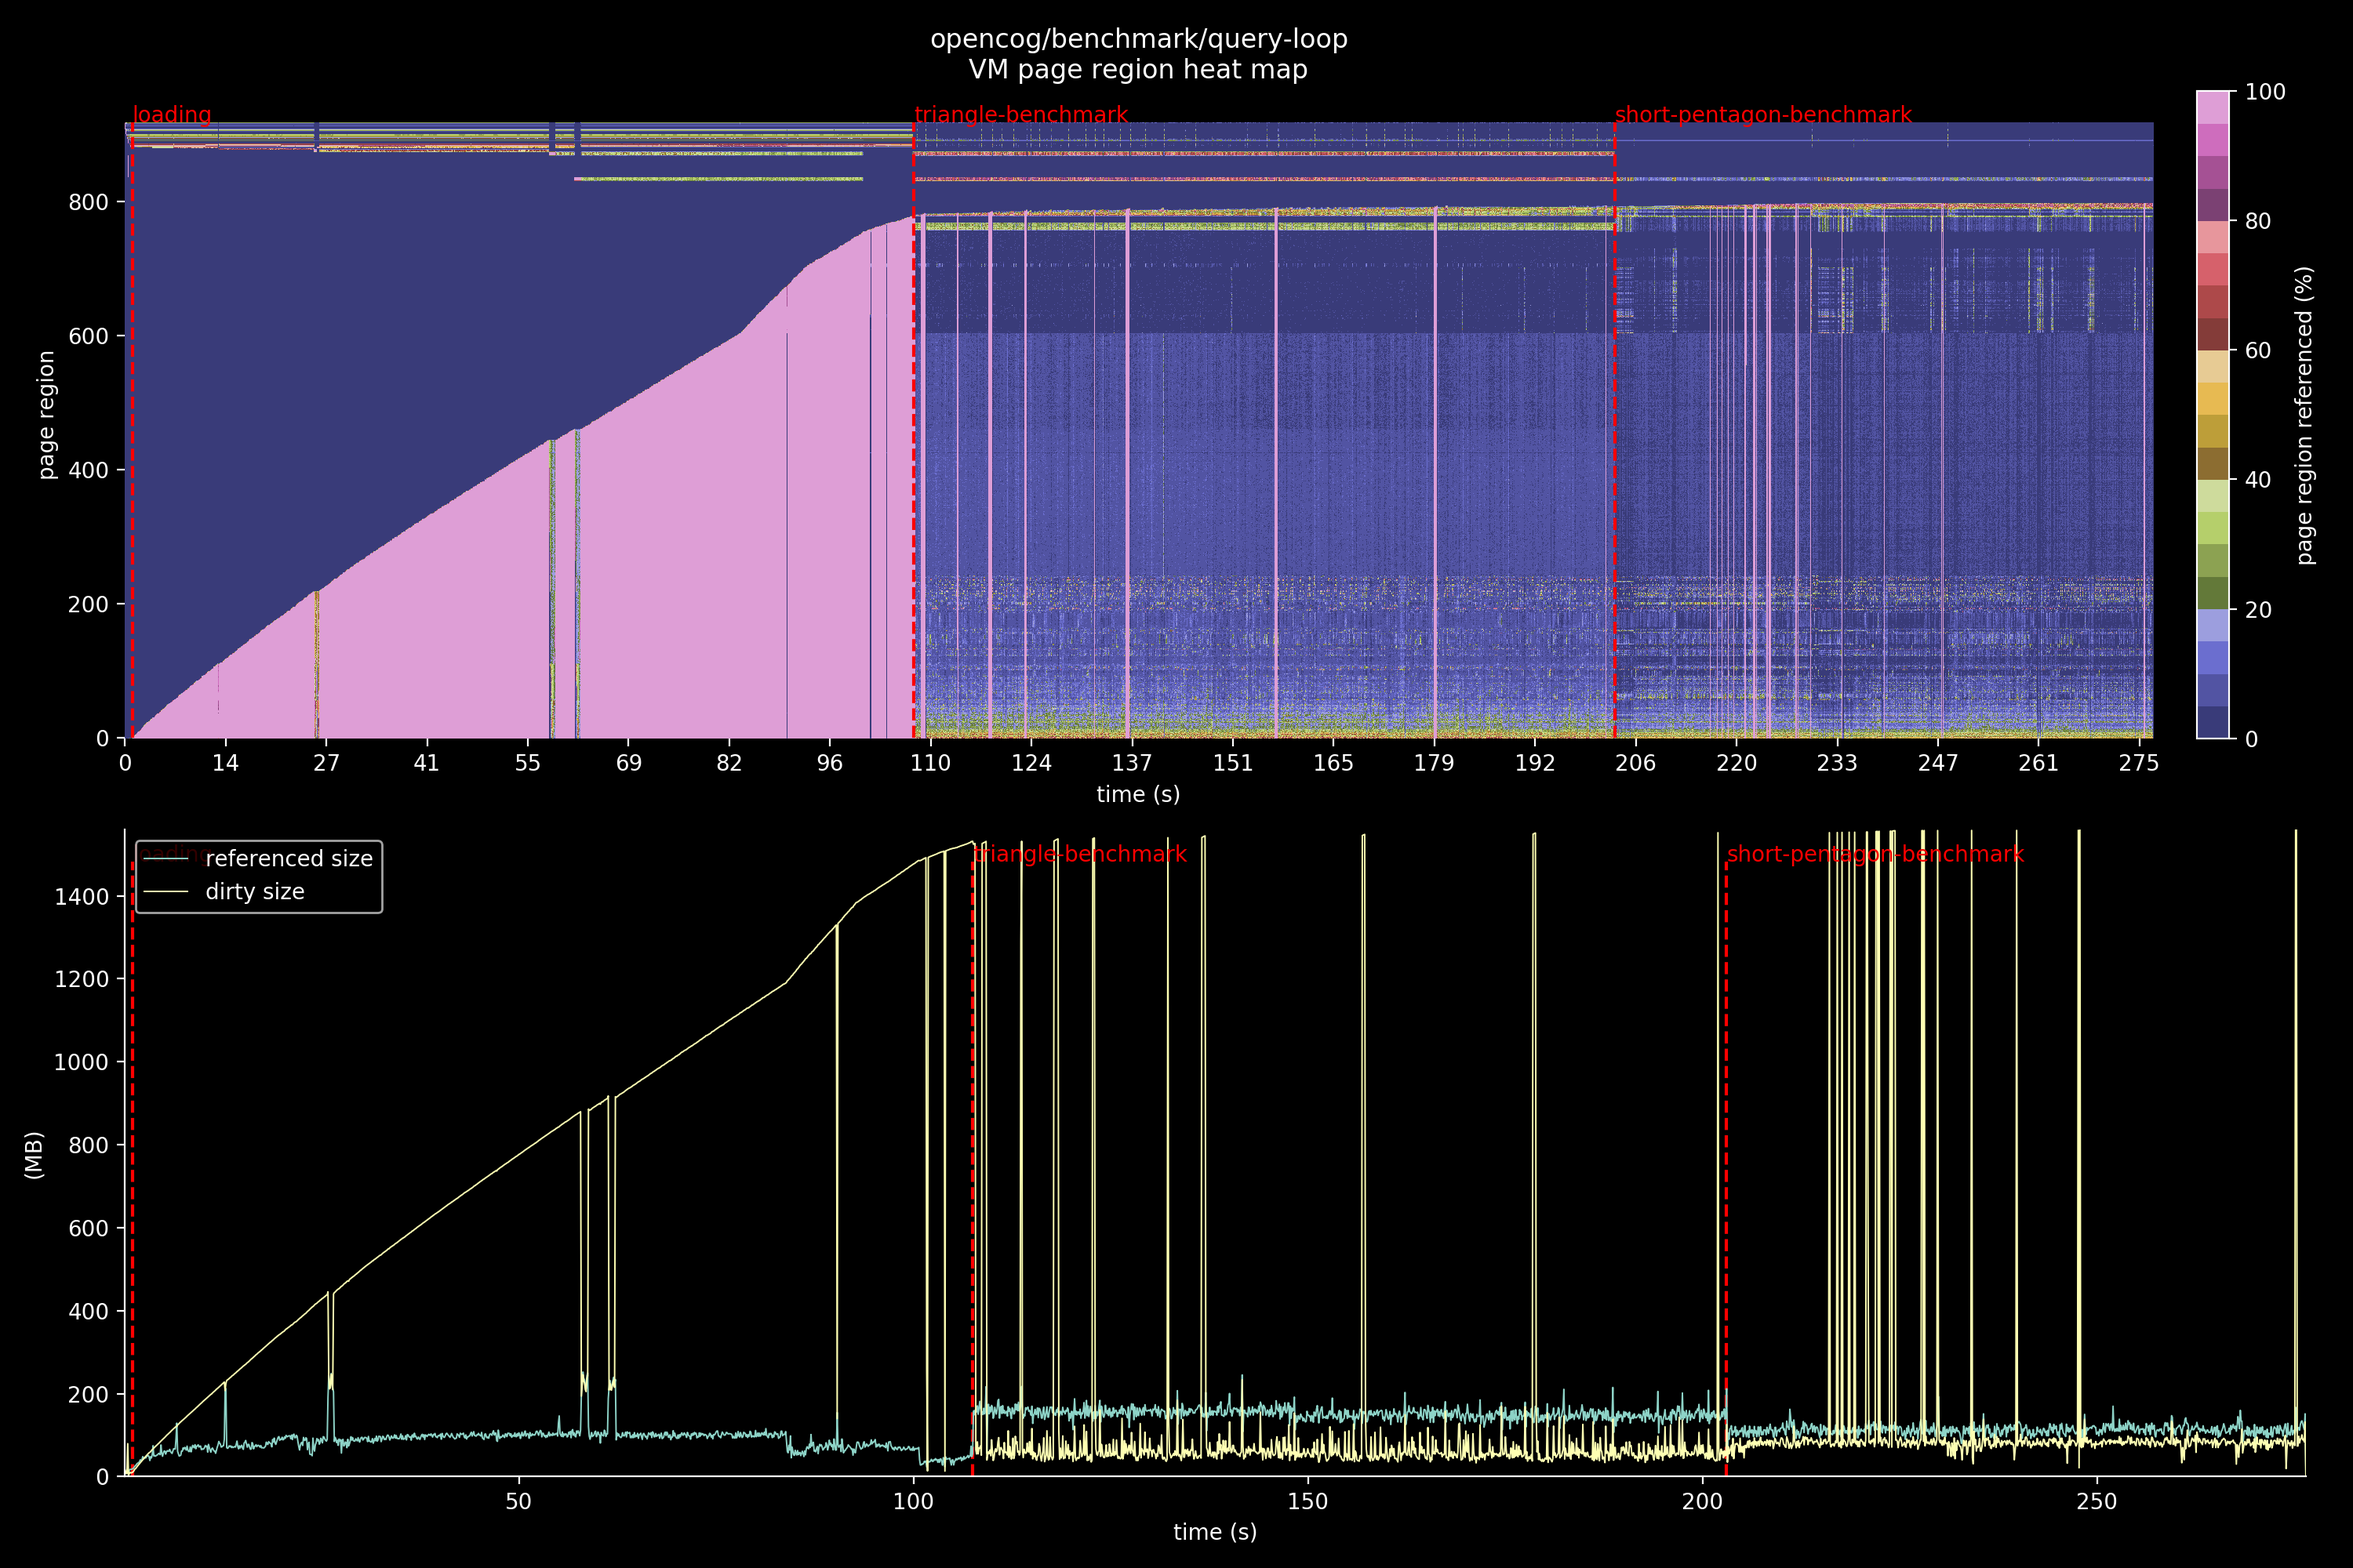
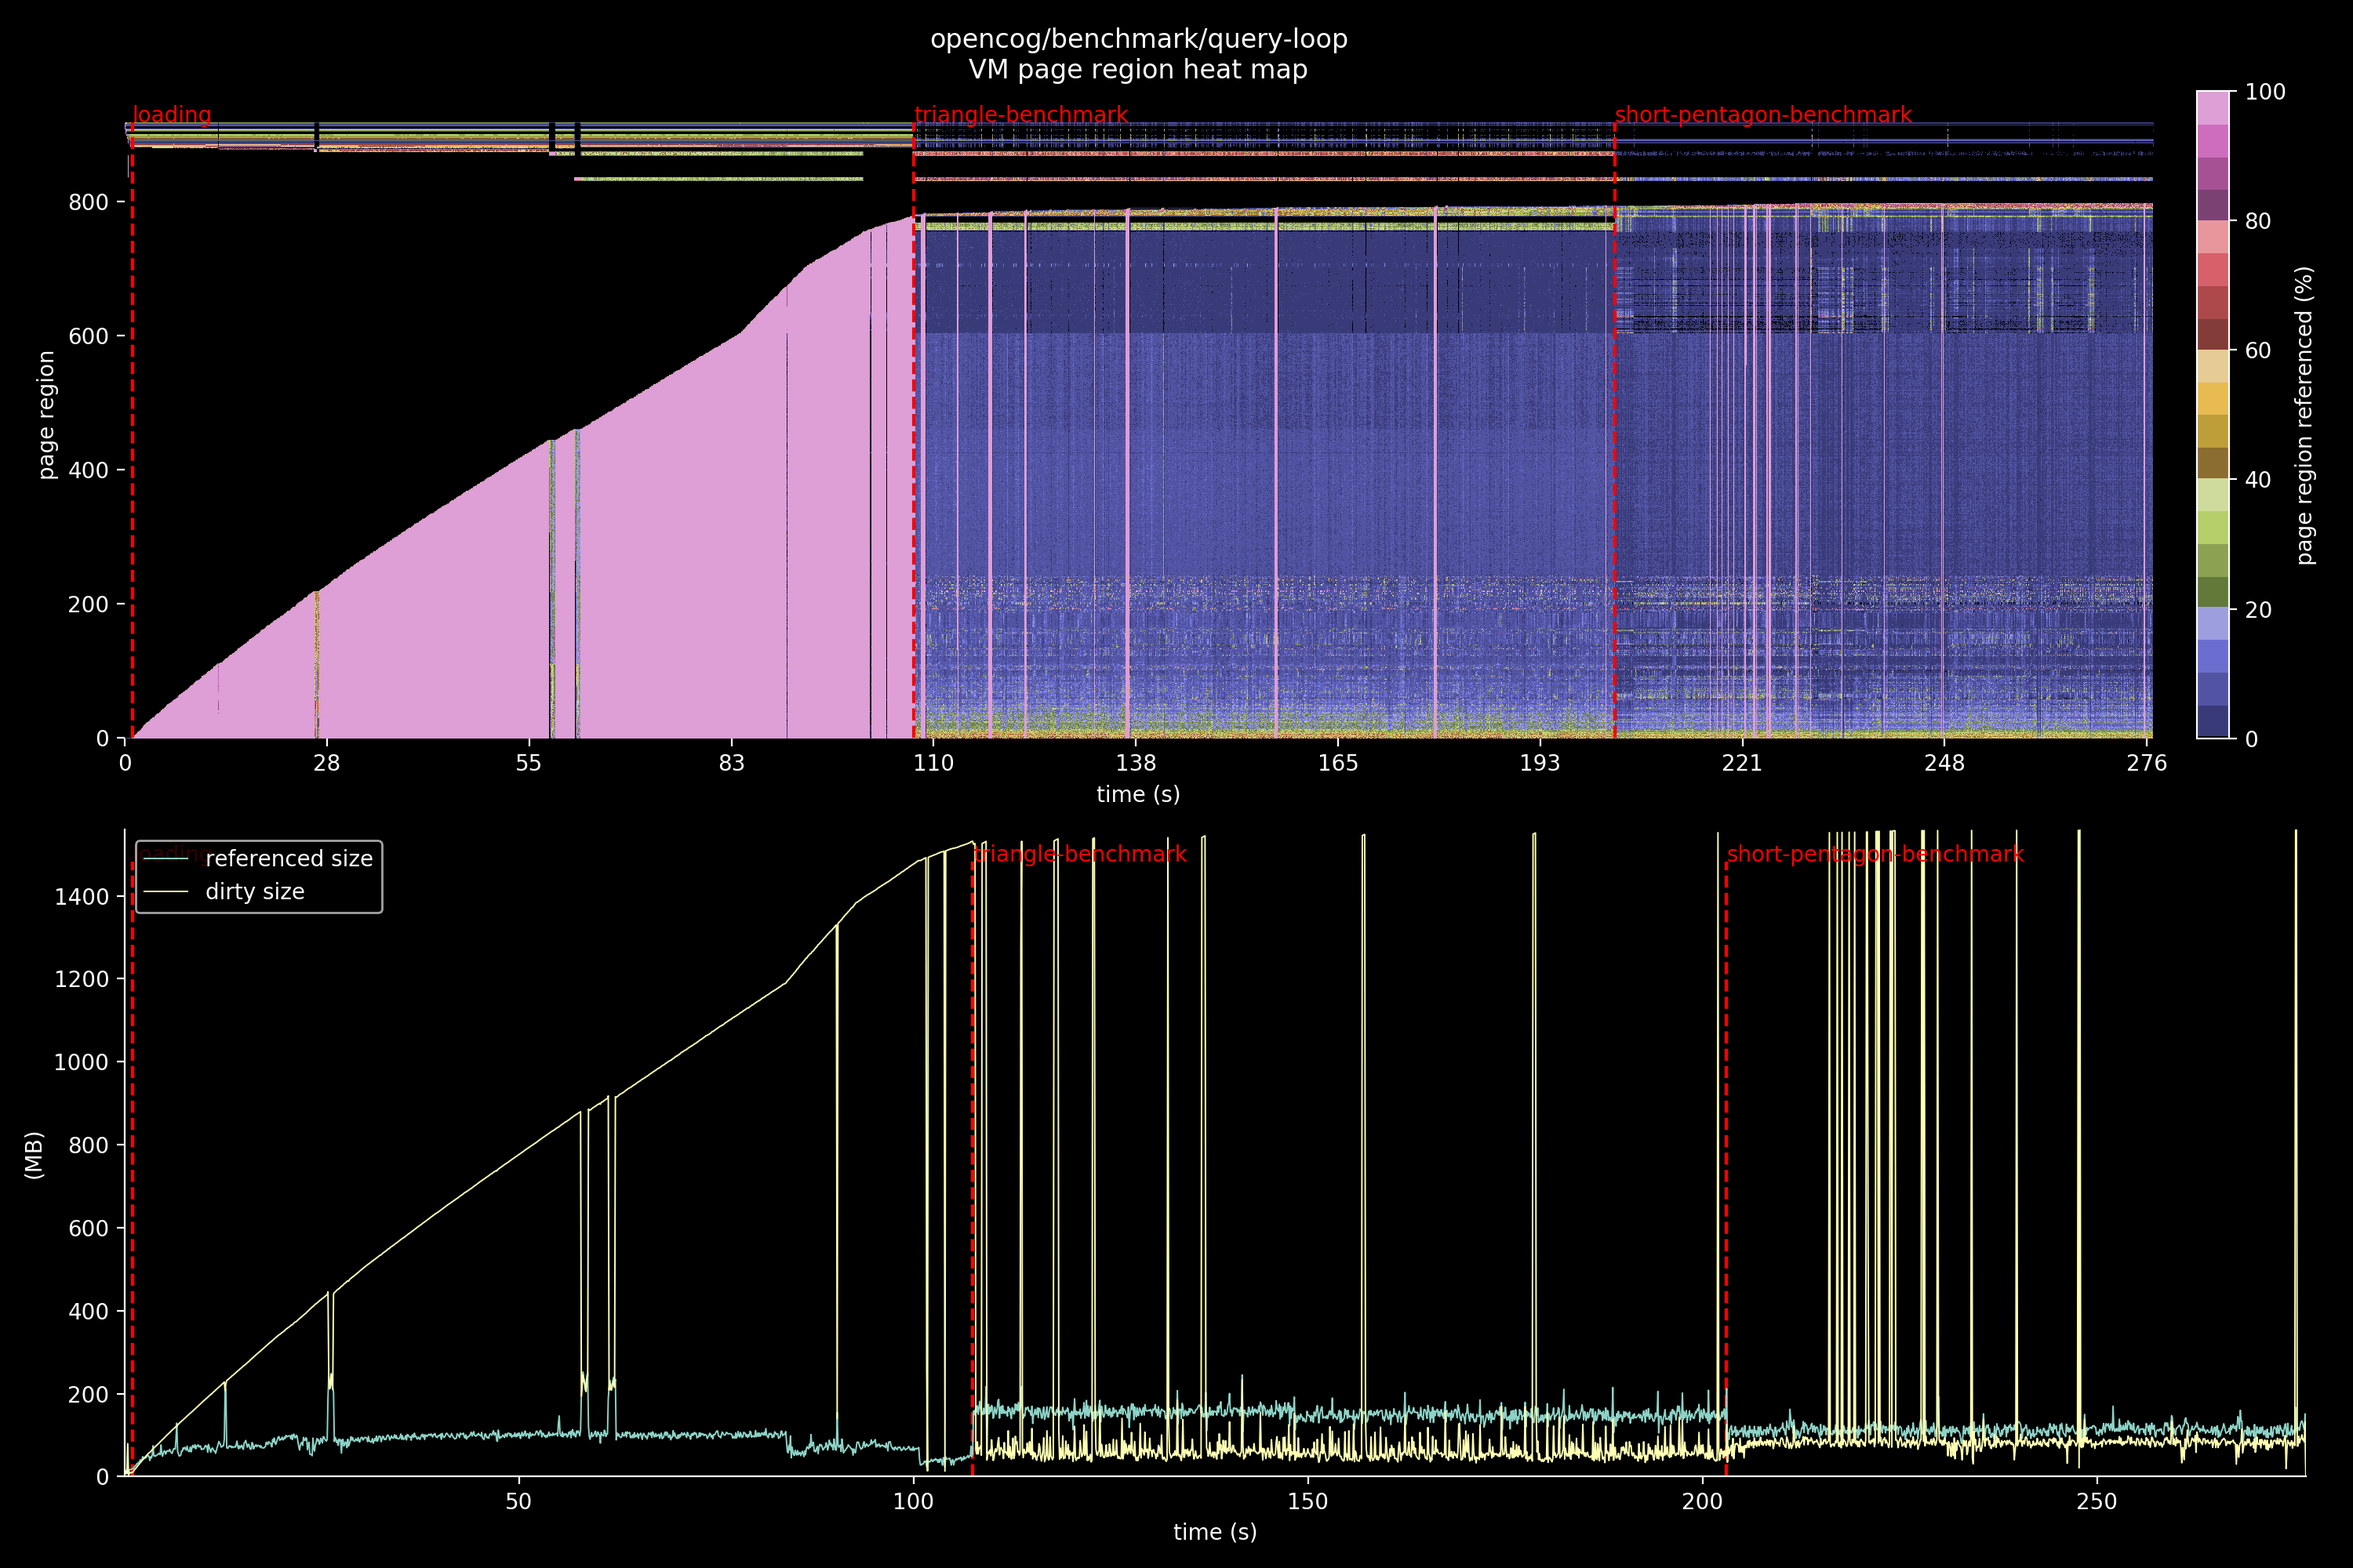
black in heatmap colormap is 0% page refs

diff --git a/mmapped-atomspace/vm-page-heatmap-graphs.py b/mmapped-atomspace/vm-page-heatmap-graphs.py
@@ -107,7 +107,8 @@ for s in iter_samples(progress=True):
     for r in s.regions:
         if r.pagemap_data is not None:
             cr, (offset_start, offset_end) = \
-                get_cons_region_for_addr_range(s.cons_regions.values(), r.from_addr, r.to_addr)
+                get_cons_region_for_addr_range(
+                    s.cons_regions.values(), r.from_addr, r.to_addr)
             indices = np.arange(offset_start//page_size, offset_end//page_size)
             cr.page_flags[indices] = r.pagemap_data
 #
@@ -136,7 +137,8 @@ class AccumulatePageCounts:
                     acr = acc_cr_by_addr[cr.key]
                     acr.page_dirty_cnt += is_dirty(cr.page_flags)
                     acr.page_accessed_cnt += is_accessed(cr.page_flags)
-                    acr.page_dirty_accessed_cnt += is_dirty(cr.page_flags) | is_accessed(cr.page_flags)
+                    acr.page_dirty_accessed_cnt += \
+                        is_dirty(cr.page_flags) | is_accessed(cr.page_flags)
 
         page_dirty_cnt = np.zeros(nknown_pages, dtype='uint32')
         page_accessed_cnt = np.zeros(nknown_pages, dtype='uint32')
@@ -213,24 +215,45 @@ def draw_markers(markers, y):
             label=m, colors='r', linestyle='dashed')
         plt.text(x, y, m, color='r')
 
+cmap = plt.get_cmap('tab20b')
+# black is 0%
+def color_component(component_idx):
+    return [(0.0,  0.0, 0.0)]+[(
+        i/(len(cmap.colors)),
+        cmap.colors[i-1][component_idx] if i > 0 else 0.0,
+        cmap.colors[i][component_idx] if i < len(cmap.colors) else 1.0,
+    ) for i in range(len(cmap.colors)+1)]
+mycmap = matplotlib.colors.LinearSegmentedColormap('mycmap',
+        {'red':   color_component(0),
+         'green': color_component(1),
+         'blue':  color_component(2)})
+
 plt.figure(figsize=(15,10))
 
 ax = plt.subplot(2,1,1)
-plt.imshow(page_accessed.transpose()/scaledown*100, origin='lower', aspect='auto', cmap=plt.get_cmap('tab20b'))
+plt.imshow(
+    page_accessed.transpose()/scaledown*100,
+    origin='lower', aspect='auto', cmap=mycmap)
 plt.title(title_prefix+'VM page region heat map')
 plt.xlabel('time (s)')
 plt.ylabel('page region')
-xticks = [(i, '%.0f' % samples[i].t) for i in range(0, len(samples), len(samples)//20)]
+xticks = [(i, '%.0f' % samples[i].t)
+          for i in range(0, len(samples), len(samples)//10)]
 plt.xticks(*zip(*xticks))
-draw_markers([(m, len(samples)*t/tlast) for m, t in markers.items()], page_accessed.shape[1])
+draw_markers([(m, len(samples)*t/tlast)
+              for m, t in markers.items()], page_accessed.shape[1])
 hide_edges(ax, ['right', 'left', 'top', 'bottom'])
 plt.colorbar(label='page region referenced (%)', fraction=0.05, pad=0.02)
 
 ax = plt.subplot(2,1,2)
 MB = 1024**2
 plts = [
-    plt.plot(*zip(*[(s.t, s.accessed_size/MB) for s in samples]), label='referenced size', linewidth=0.7)[0],
-    plt.plot(*zip(*[(s.t, s.dirty_size/MB) for s in samples]), label='dirty size', linewidth=0.7)[0],
+    plt.plot(
+        *zip(*[(s.t, s.accessed_size/MB) for s in samples]),
+        label='referenced size', linewidth=0.7)[0],
+    plt.plot(
+        *zip(*[(s.t, s.dirty_size/MB) for s in samples]),
+        label='dirty size', linewidth=0.7)[0],
 ]
 plt.xlabel('time (s)')
 plt.ylabel('(MB)')
